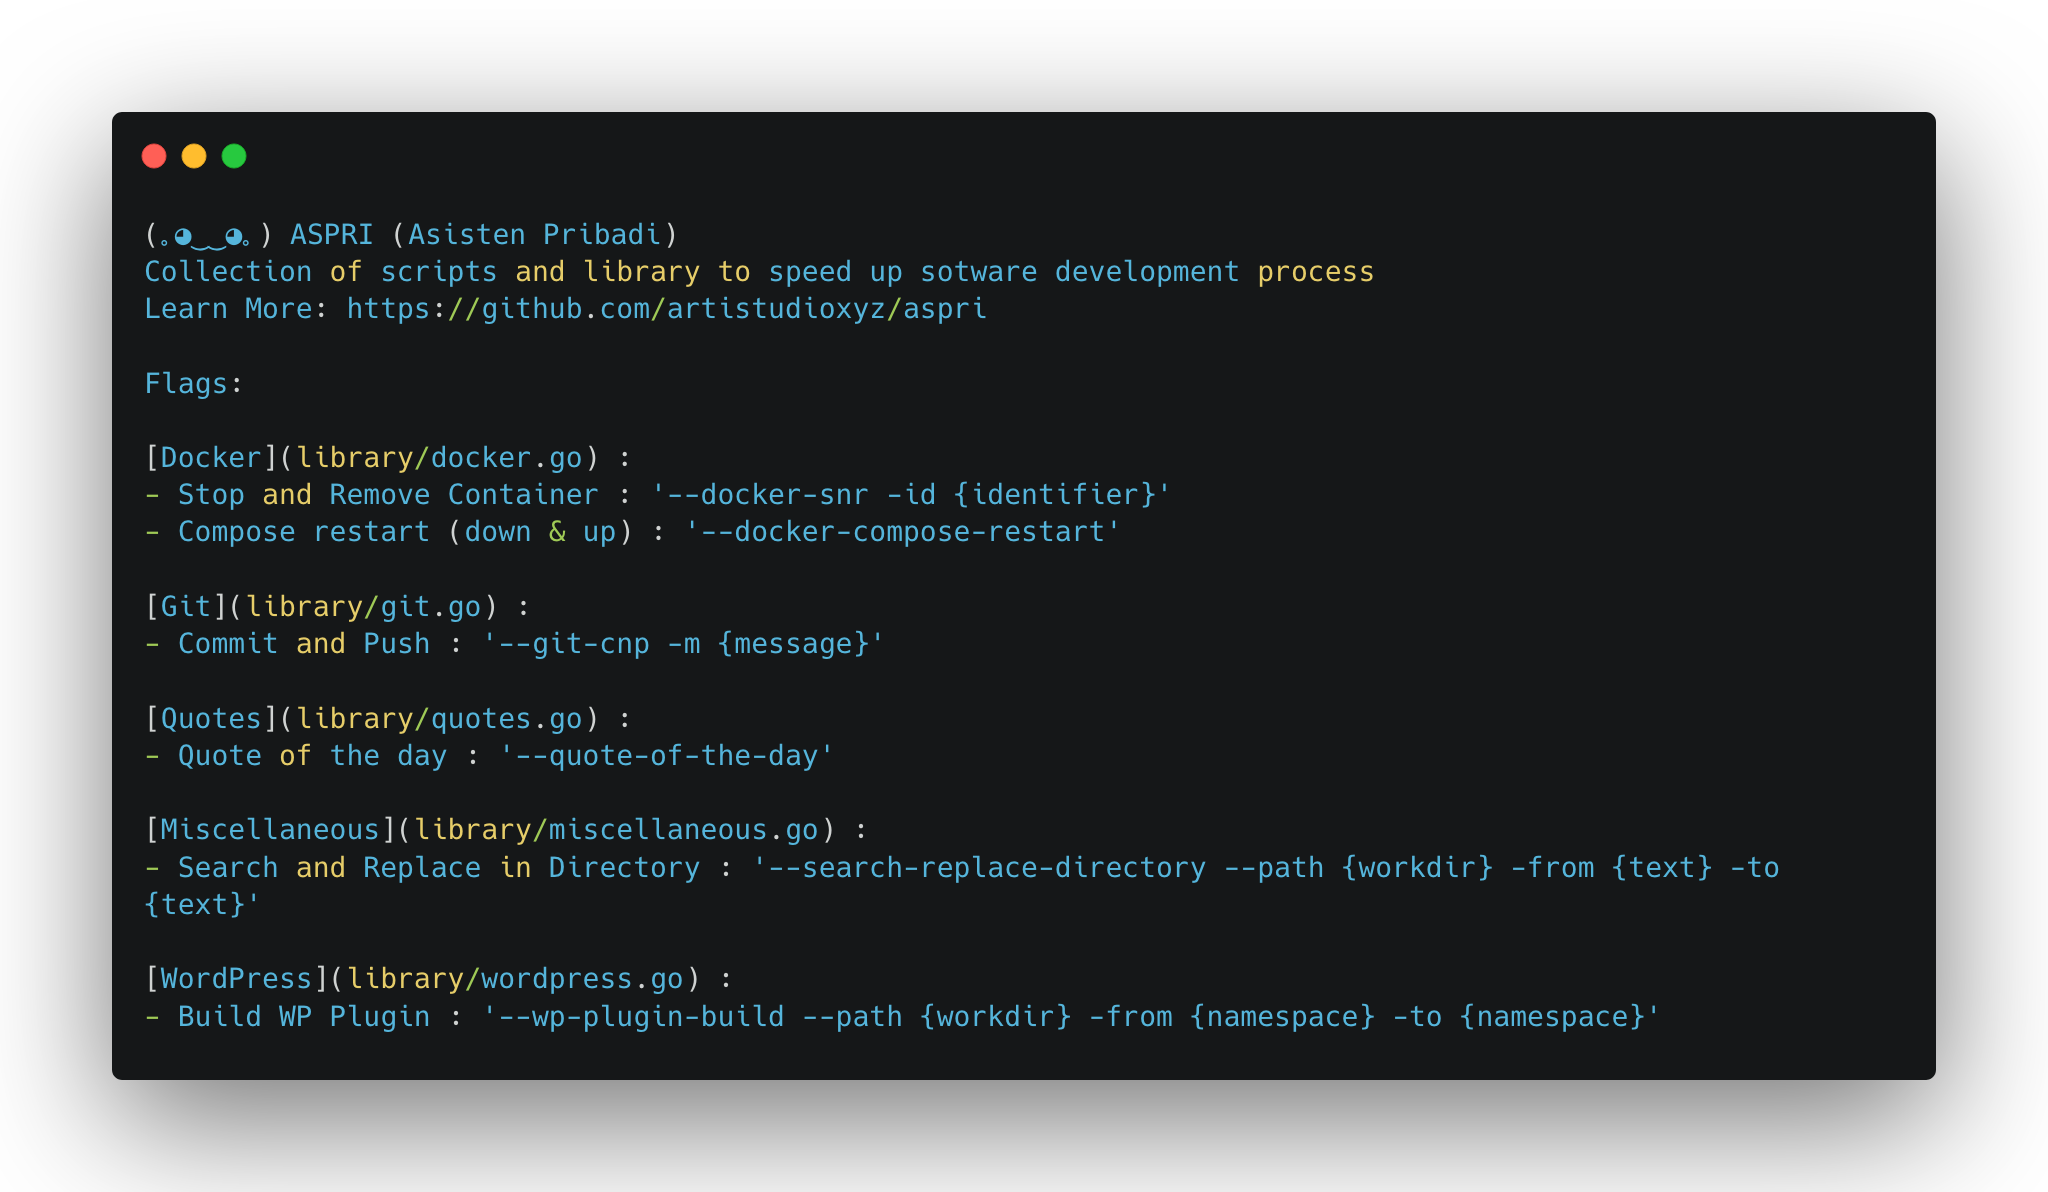
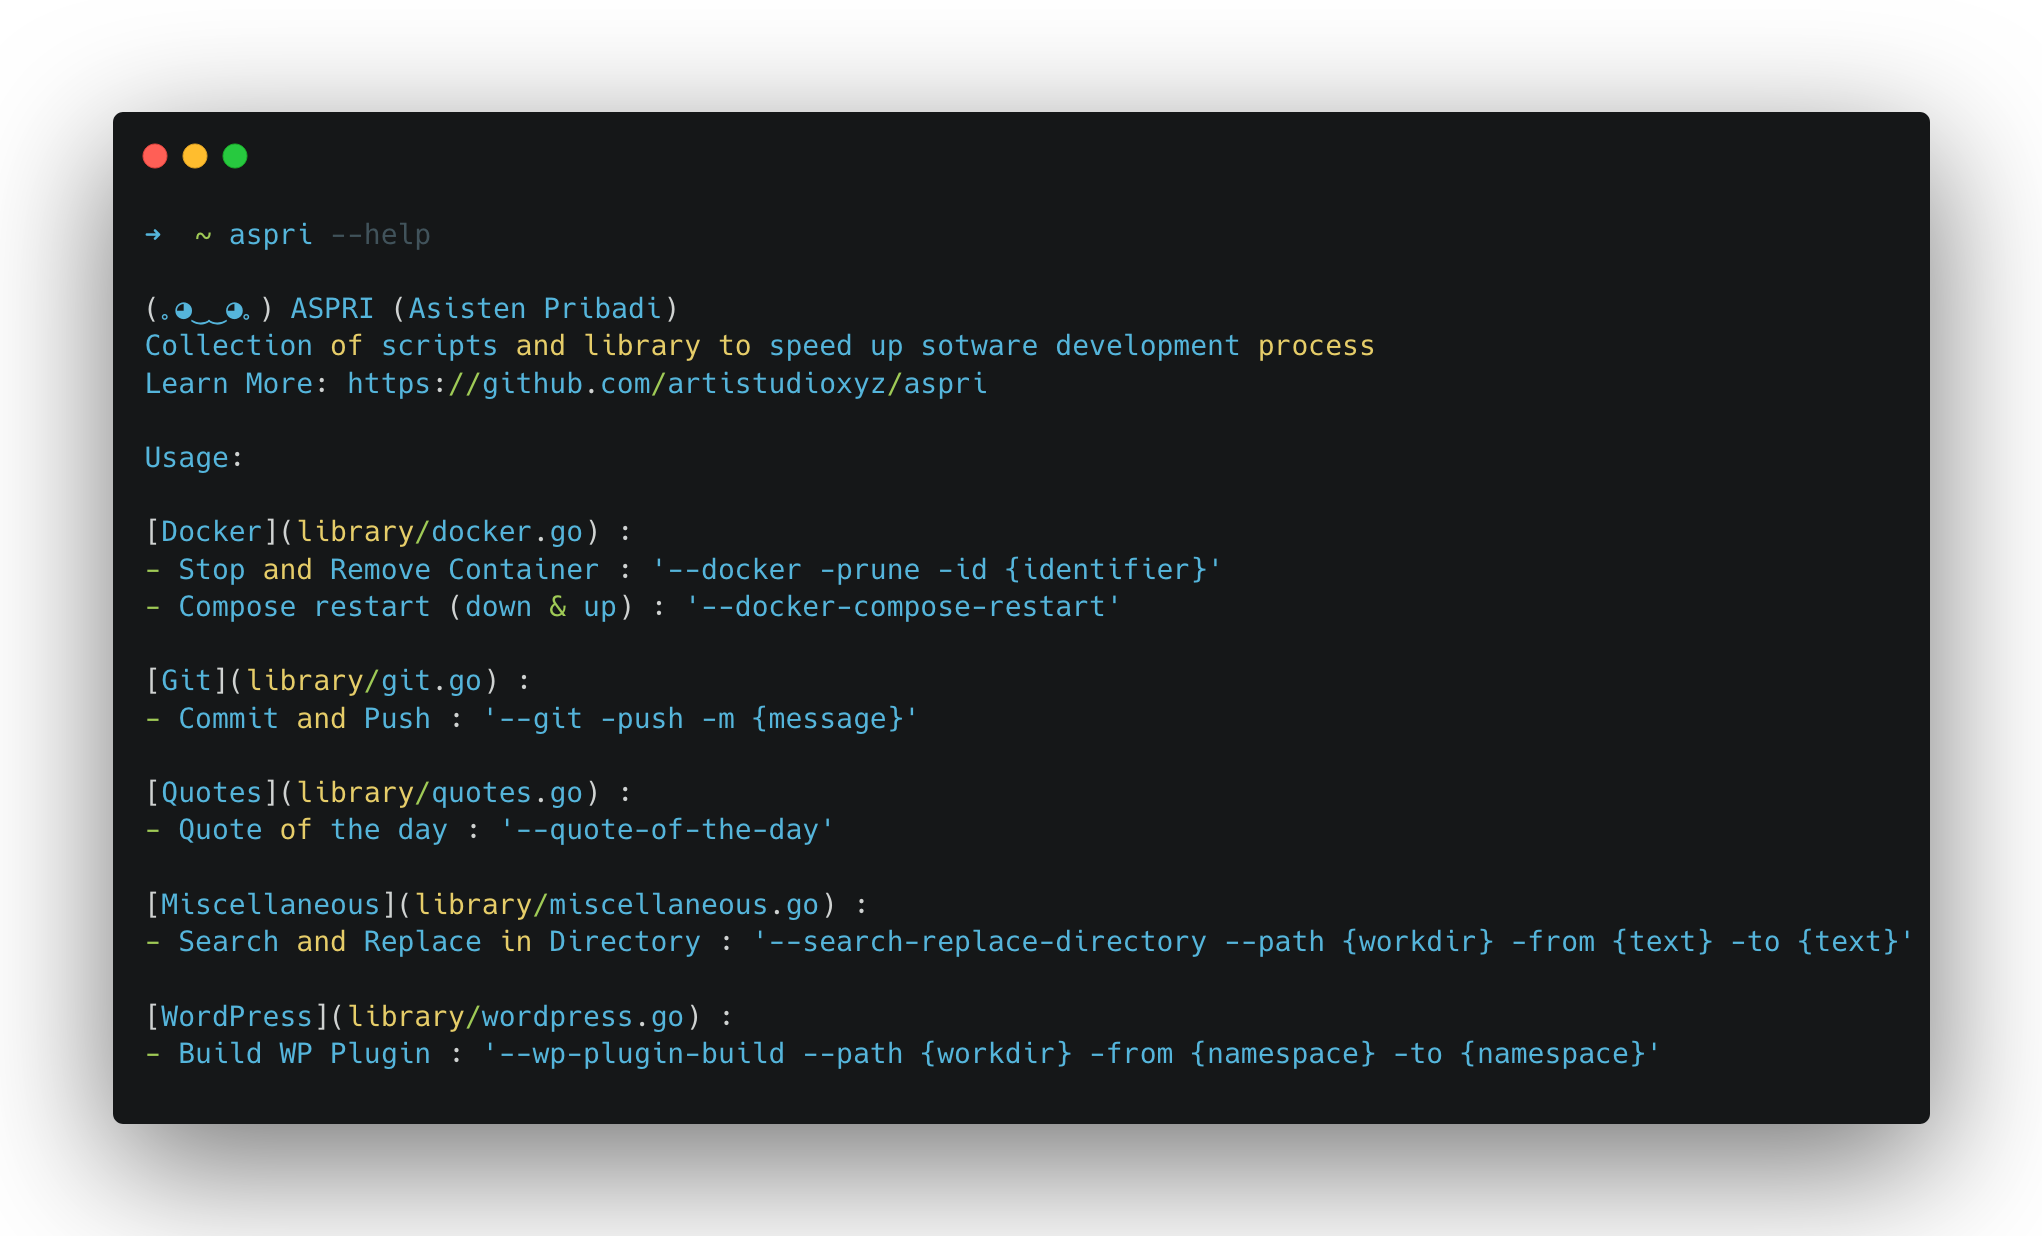
Take out help.go into main package

diff --git a/help.go b/help.go
@@ -1,4 +1,13 @@
-package library
+package main
+
+import (
+	"flag"
+	"fmt"
+)
+
+var (
+	helpFlag = flag.Bool("help", false, "show usage message")
+)
 
 /** Documentation Help */
 const HelpText = `
@@ -6,14 +15,14 @@ const HelpText = `
 Collection of scripts and library to speed up sotware development process 
 Learn More: https://github.com/artistudioxyz/aspri
 
-Flags:
+Usage:
 
 [Docker](library/docker.go) :
-- Stop and Remove Container : '--docker-snr -id {identifier}' 
+- Stop and Remove Container : '--docker -prune -id {identifier}' 
 - Compose restart (down & up) : '--docker-compose-restart'
 
 [Git](library/git.go) :
-- Commit and Push : '--git-cnp -m {message}'
+- Commit and Push : '--git -push -m {message}'
 
 [Quotes](library/quotes.go) :
 - Quote of the day : '--quote-of-the-day'
@@ -25,3 +34,11 @@ Flags:
 - Build WP Plugin : '--wp-plugin-build --path {workdir} -from {namespace} -to {namespace}'
 
 `
+
+/** Help Flag */
+func handleHelpFlag() {
+	if *helpFlag {
+		fmt.Print(HelpText)
+		return
+	}
+}

diff --git a/library/miscellaneous.go b/library/miscellaneous.go
@@ -6,9 +6,6 @@ import (
 )
 
 var (
-	/** Miscellaneous */
-	helpFlag = flag.Bool("help", false, "show usage message")
-
 	/** Refactor */
 	RefactorPath     = flag.String("path", "", "working directory path")
 	RefactorFromFlag = flag.String("from", "", "string to be replaced")
@@ -20,12 +17,6 @@ var (
 
 /** Initiate Miscellaneous Function */
 func InitiateMiscellaneousFunction() {
-	/** Help */
-	if *helpFlag {
-		fmt.Print(HelpText)
-		return
-	}
-
 	/** Build WP Plugin */
 	if *SearchandReplaceFlag && *RefactorPath != "" && *RefactorFromFlag != "" && *RefactorToFlag != "" {
 		SearchandReplaceinDir(*RefactorPath, *RefactorFromFlag, *RefactorToFlag)

diff --git a/main.go b/main.go
@@ -14,6 +14,7 @@ func main() {
 
 	/** Information Flag */
 	handleInfoFlag()
+	handleHelpFlag()
 
 	/** Initiate Library */
 	library.InitiateDockerFunction()

diff --git a/README.md b/README.md
@@ -1,4 +1,4 @@
-<p align="center"><img src="logo.png"></p>
+<p align="center"><img src="screenshot.png"></p>
 
 <p align="center">
     <img src="https://img.shields.io/github/last-commit/artistudioxyz/aspri" alt="Last Commit">
@@ -11,8 +11,6 @@
 # ASPRI (Asisten Pribadi)
 
 a Collection of scripts and libraries to speed up sotware development process
-
-<p align="center"><img src="screenshot.png"></p>
 
 ## 📝 Installation
 - Run : `go install`
